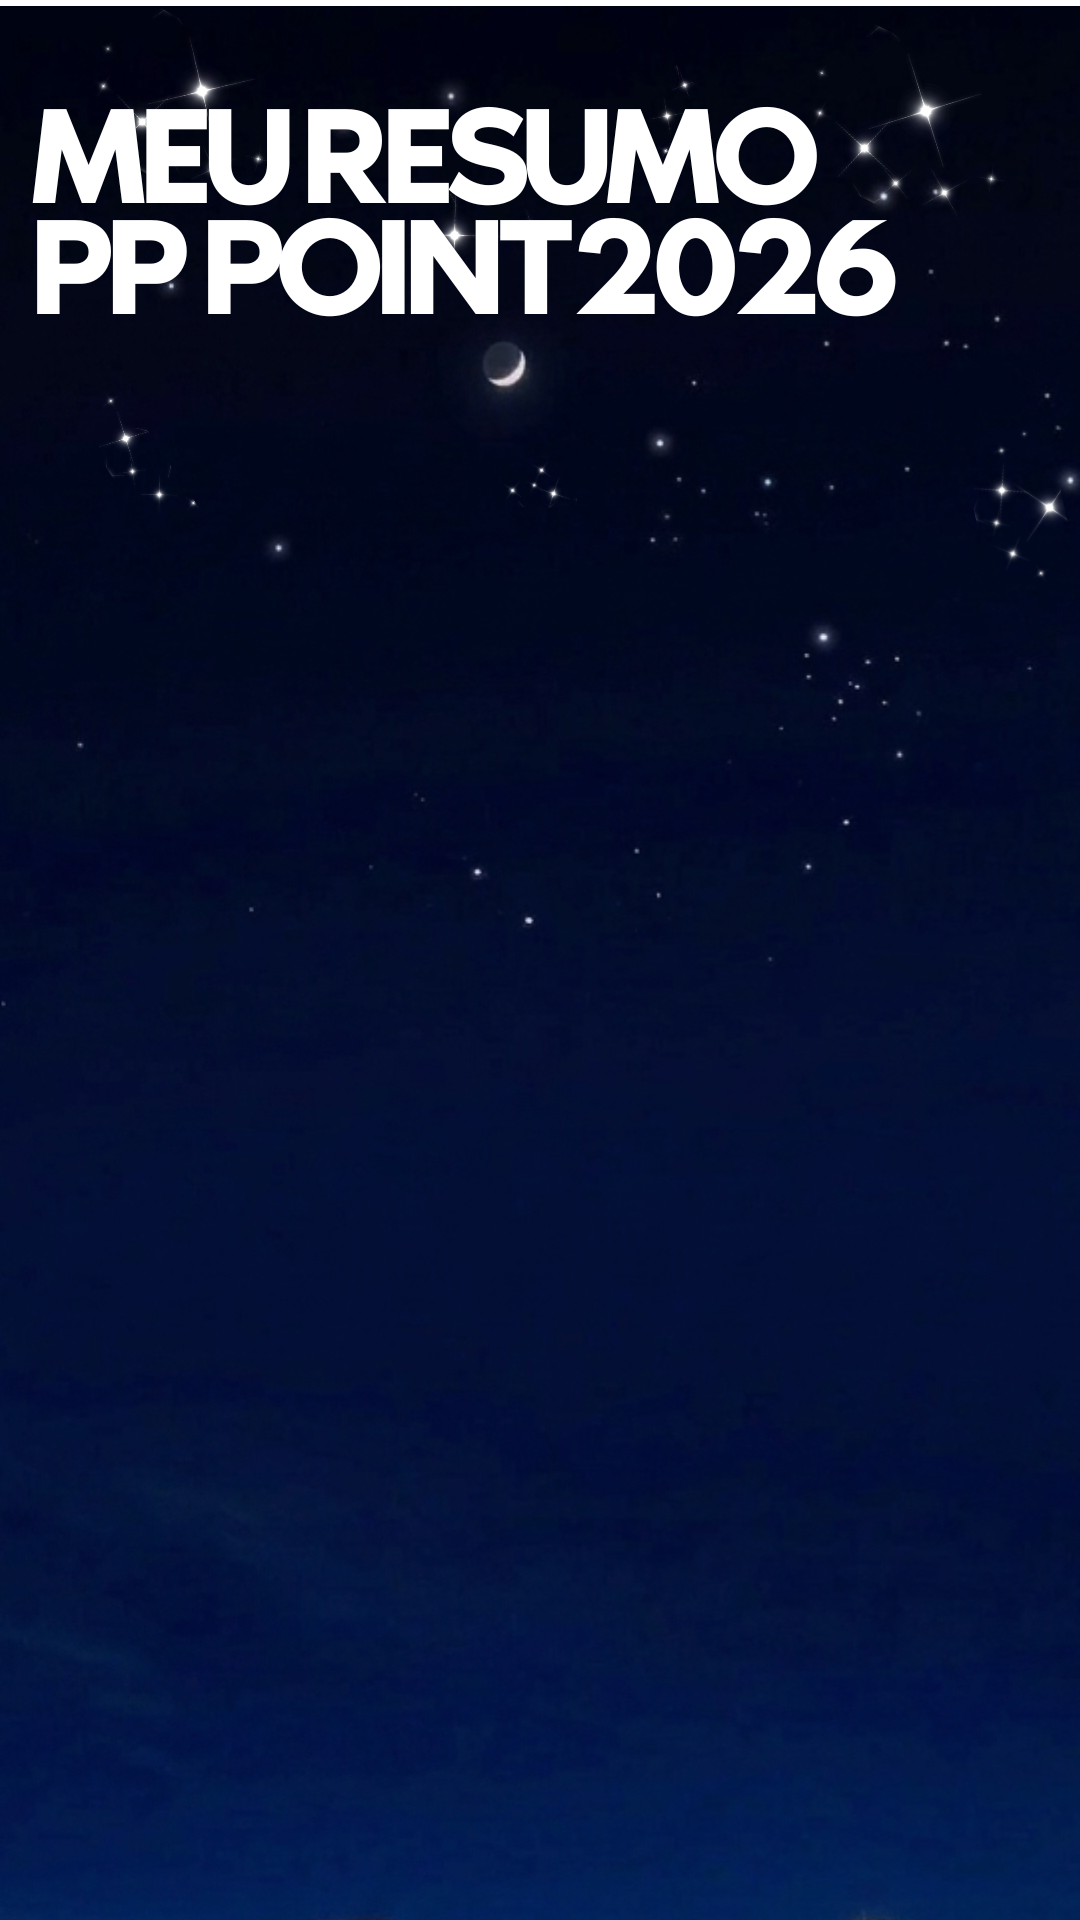
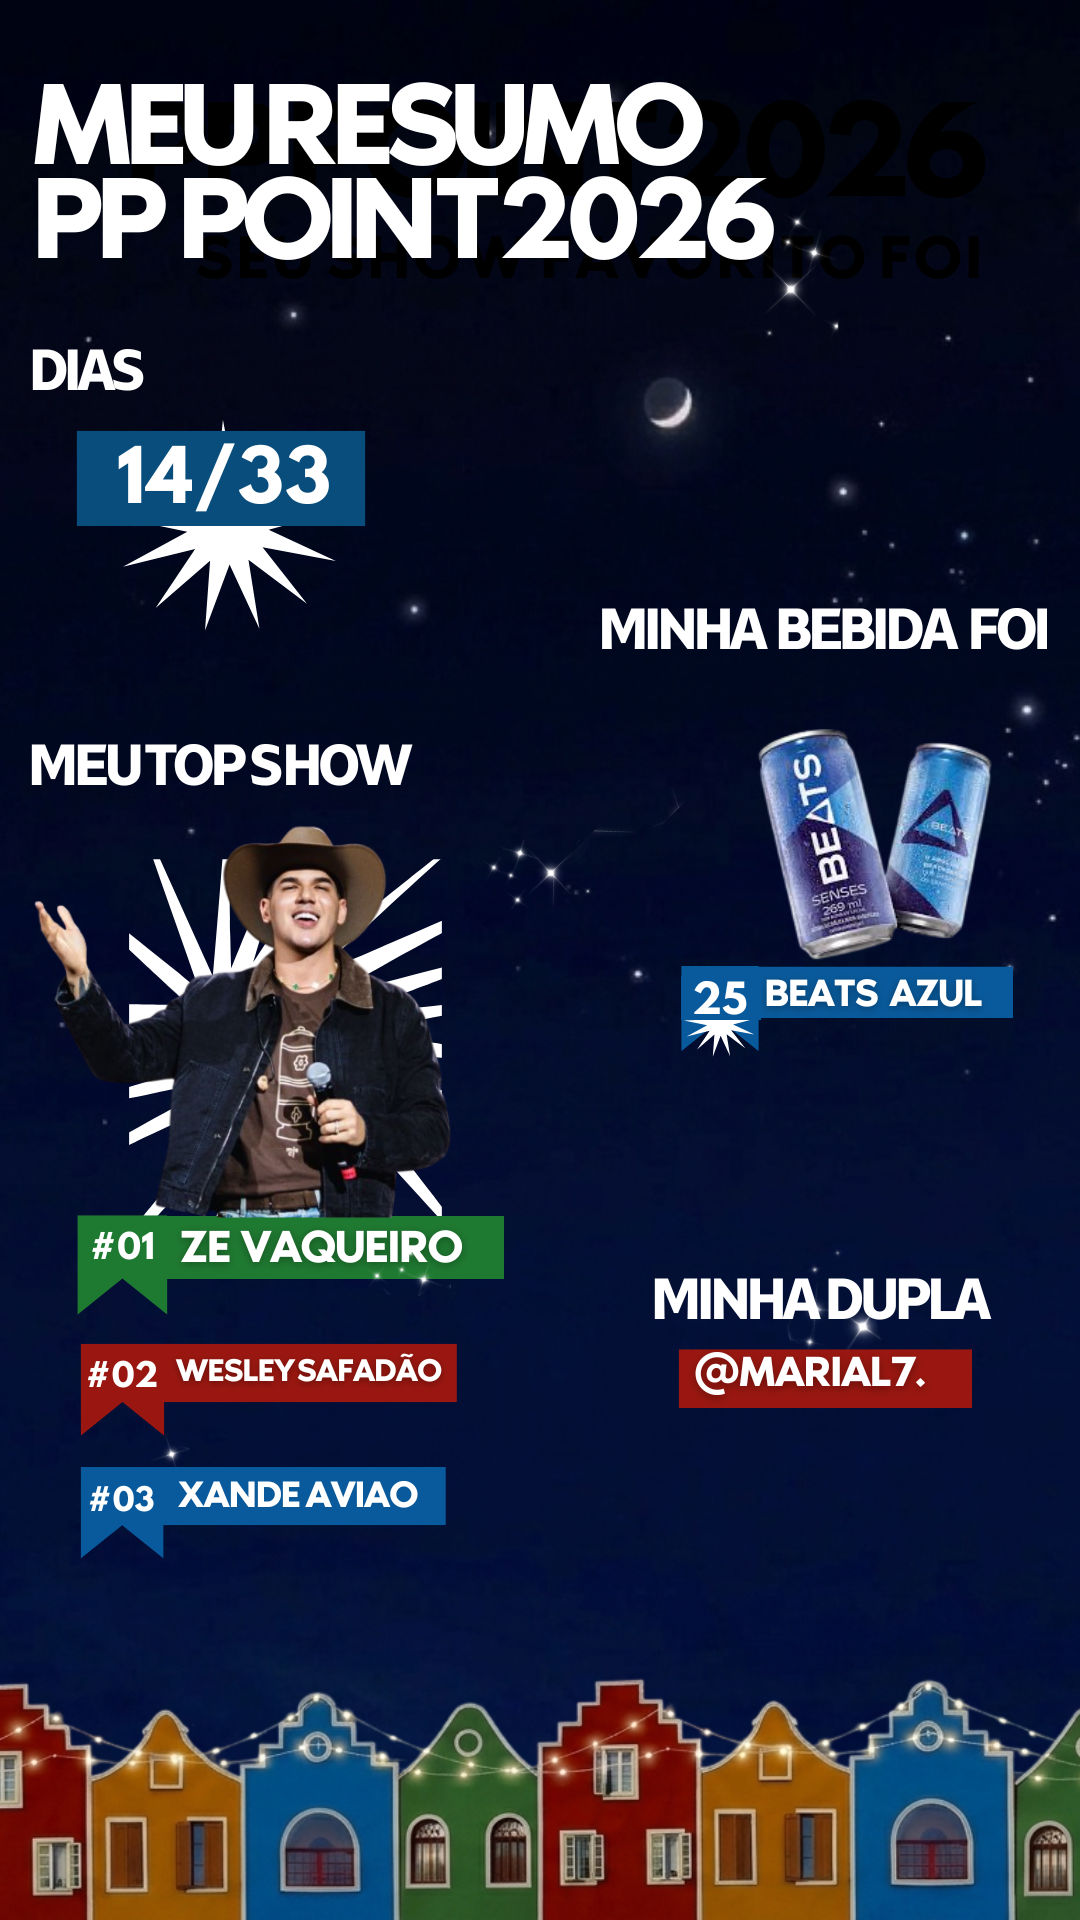
ajustes no designer dos stories e fundo

diff --git a/frontend/versao-mobile/css/base.css b/frontend/versao-mobile/css/base.css
@@ -47,17 +47,17 @@ body {
 }
 
 .fundo-item.programacao {
-  background-image: url('./imagens/003.jpg');
+  background-image: url('./imagens/03.jpg');
   background-position: center -60px;
 }
 
 .fundo-item.point {
-  background-image: url('./imagens/001.jpg');
+  background-image: url('./imagens/01.jpg');
   background-position: center -60px;
 }
 
 .fundo-item.retrospectiva {
-  background-image: url('./imagens/002.jpg');
+  background-image: url('./imagens/02.jpg');
   background-position: center -60px;
 }
 

diff --git a/frontend/versao-mobile/css/Pagina-Retrospectiva/stories/css/amigos.css b/frontend/versao-mobile/css/Pagina-Retrospectiva/stories/css/amigos.css
@@ -1,6 +1,6 @@
 
 .bg-amigos {
-  background-image: url('./imagens/fundostories.png');
+  background-image: url('./imagens/amigos.png');
   background-size: cover;
   background-position: center;
   background-repeat: no-repeat;

diff --git a/frontend/versao-mobile/css/Pagina-Retrospectiva/stories/css/dias.css b/frontend/versao-mobile/css/Pagina-Retrospectiva/stories/css/dias.css
@@ -1,6 +1,6 @@
 
 .bg-dias {
-  background-image: url('./imagens/fundostories.png');
+  background-image: url('./imagens/dias.png');
   background-size: cover;
   background-position: center;
   background-repeat: no-repeat;

diff --git a/frontend/versao-mobile/css/Pagina-Retrospectiva/stories/css/midias.css b/frontend/versao-mobile/css/Pagina-Retrospectiva/stories/css/midias.css
@@ -1,6 +1,6 @@
 
 .bg-midias {
-  background-image: url('./imagens/fundostories.png');
+  background-image: url('./imagens/midias.png');
   background-size: cover;
   background-position: center;
   background-repeat: no-repeat;

diff --git a/frontend/versao-mobile/css/Pagina-progamacao/progamação.css b/frontend/versao-mobile/css/Pagina-progamacao/progamação.css
@@ -97,7 +97,7 @@
 
 
 .hora {
-  background-color: #DC293E;
+  background-color: #991710;
   font-weight: bold;
   color: #ffffff;
   font-size: 13px; 

diff --git a/frontend/versao-mobile/js/retrospectiva.js b/frontend/versao-mobile/js/retrospectiva.js
@@ -38,7 +38,6 @@ function initRetrospectiva() {
             if (usuario && texto) {
                 const nome = usuario.nome || usuario.usuario || "Usuário";
               texto.innerHTML = `
-  <span class="nome-user">${nome}</span><br>
   <span class="frase-retro">SUA RETROSPECTIVA ESTARÁ</span><br>
   <span class="frase-retro">DISPONÍVEL EM</span>
 `;